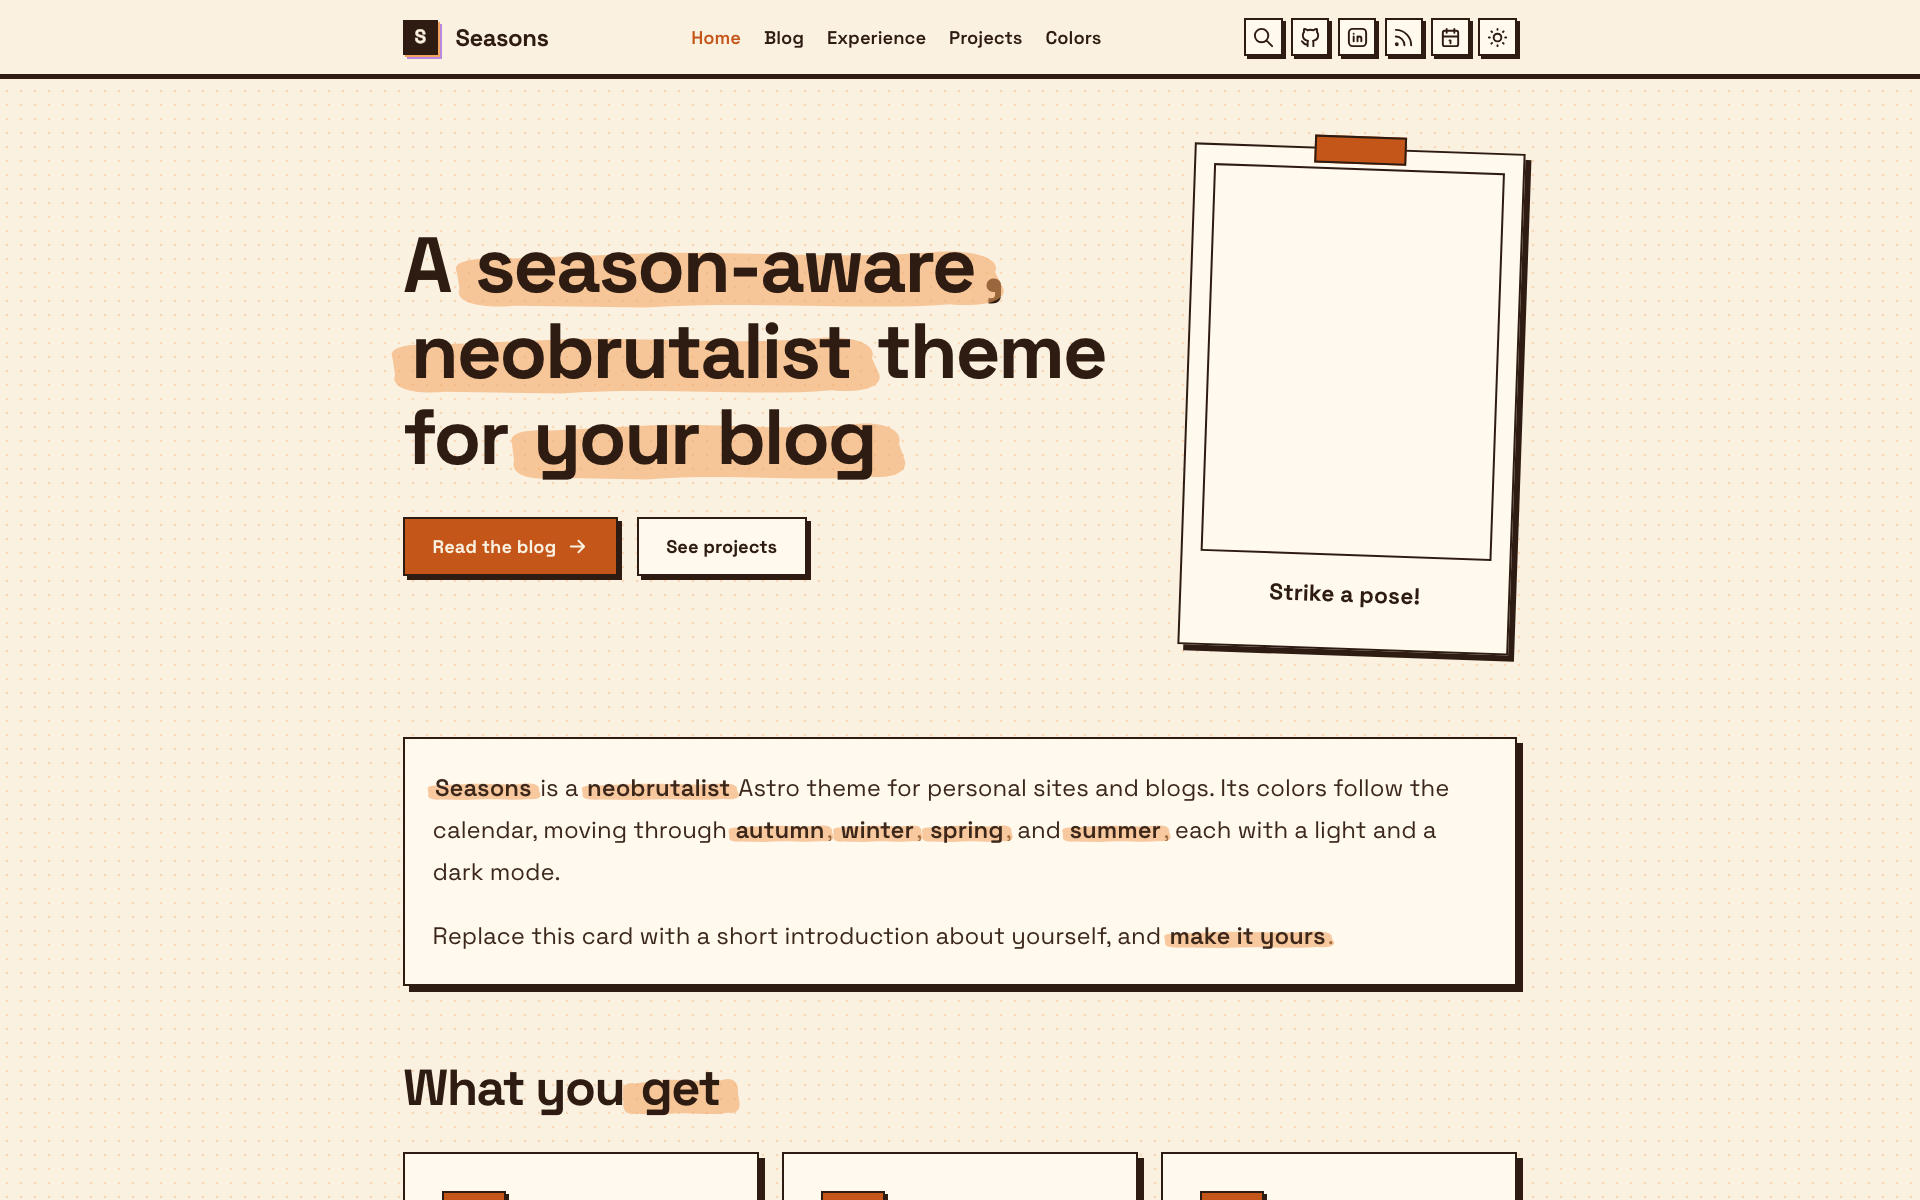
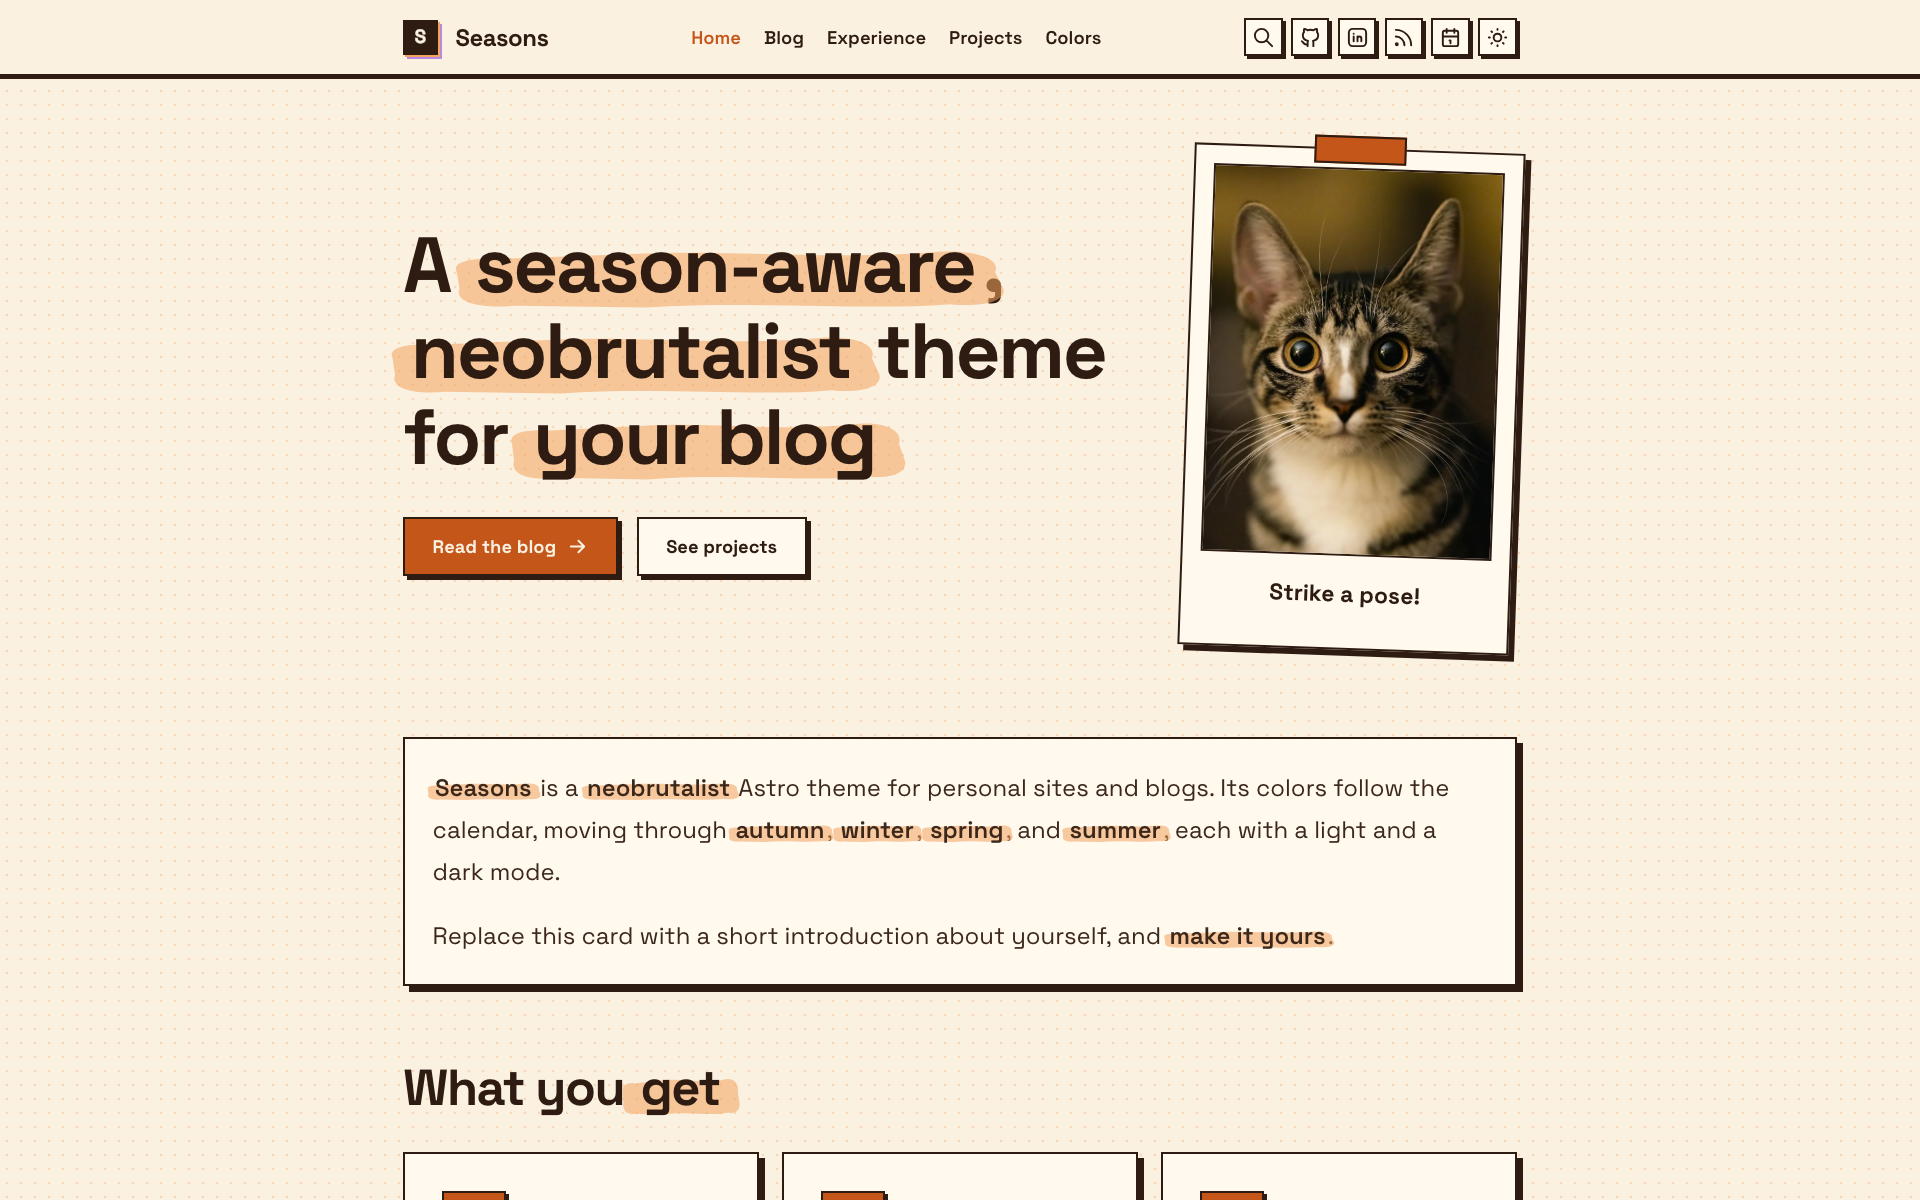
test(screenshots): wait for images before capture
- Decode eager images, then let the summer heat shimmer filter settle
- Recapture blank autumn and spring light home screenshots

Changed region(s): [[0.625, 0.1233, 0.7812, 0.4625]]

diff --git a/src/tests/screenshots/support.ts b/src/tests/screenshots/support.ts
@@ -48,6 +48,21 @@ async function freezeSvgAnimations(page: Page): Promise<void> {
   });
 }
 
+// Images are decoded asynchronously, so a capture taken right after `goto` can show an empty frame where a
+// photo should be. Wait for the eager ones (lazy ones below the fold may never load, so skip those).
+async function waitForImages(page: Page): Promise<void> {
+  await page.evaluate(async (): Promise<void> => {
+    const images: HTMLImageElement[] = Array.from(document.images).filter(
+      (image: HTMLImageElement): boolean => image.loading !== 'lazy',
+    );
+    await Promise.all(images.map((image: HTMLImageElement) => image.decode().catch(() => undefined)));
+  });
+}
+
+// The summer heat shimmer is an SVG filter over the whole page. It paints a decoded image slightly later
+// than the plain frame, and no frame or load event signals when, so give it a moment to settle.
+const FILTER_SETTLE_MS: number = 300;
+
 export function defineScreenshotTests(
   pageName: string,
   path: string,
@@ -61,7 +76,9 @@ export function defineScreenshotTests(
         await page.clock.setFixedTime(new Date(season.date));
         await page.emulateMedia({ colorScheme });
         await page.goto(path);
+        await waitForImages(page);
         await freezeSvgAnimations(page);
+        await page.waitForTimeout(FILTER_SETTLE_MS);
         if (options.keepAnimations) {
           await freezeParticleAnimations(page);
           await page.screenshot({ path: outputPath, animations: 'allow' });
